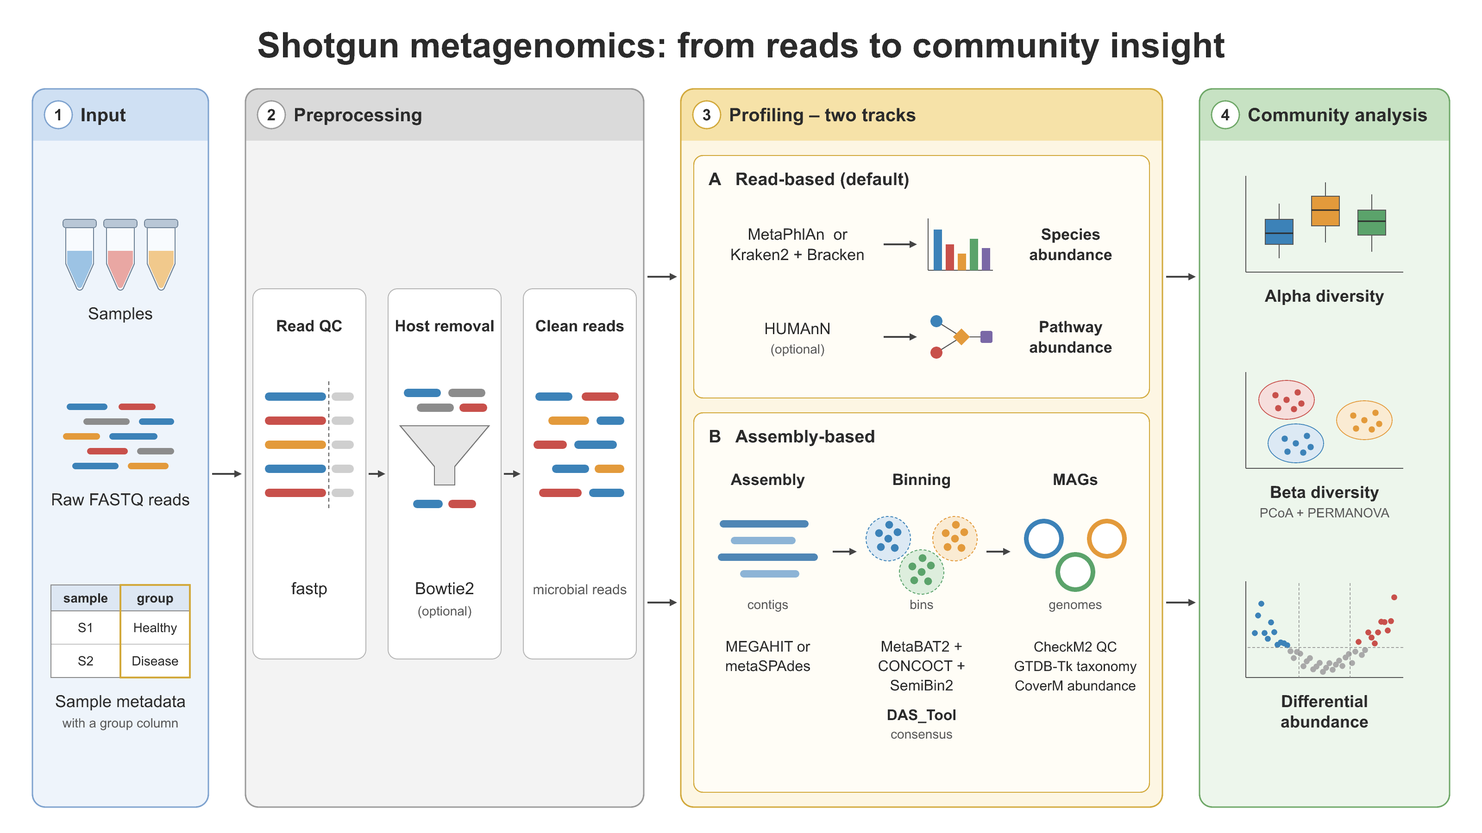
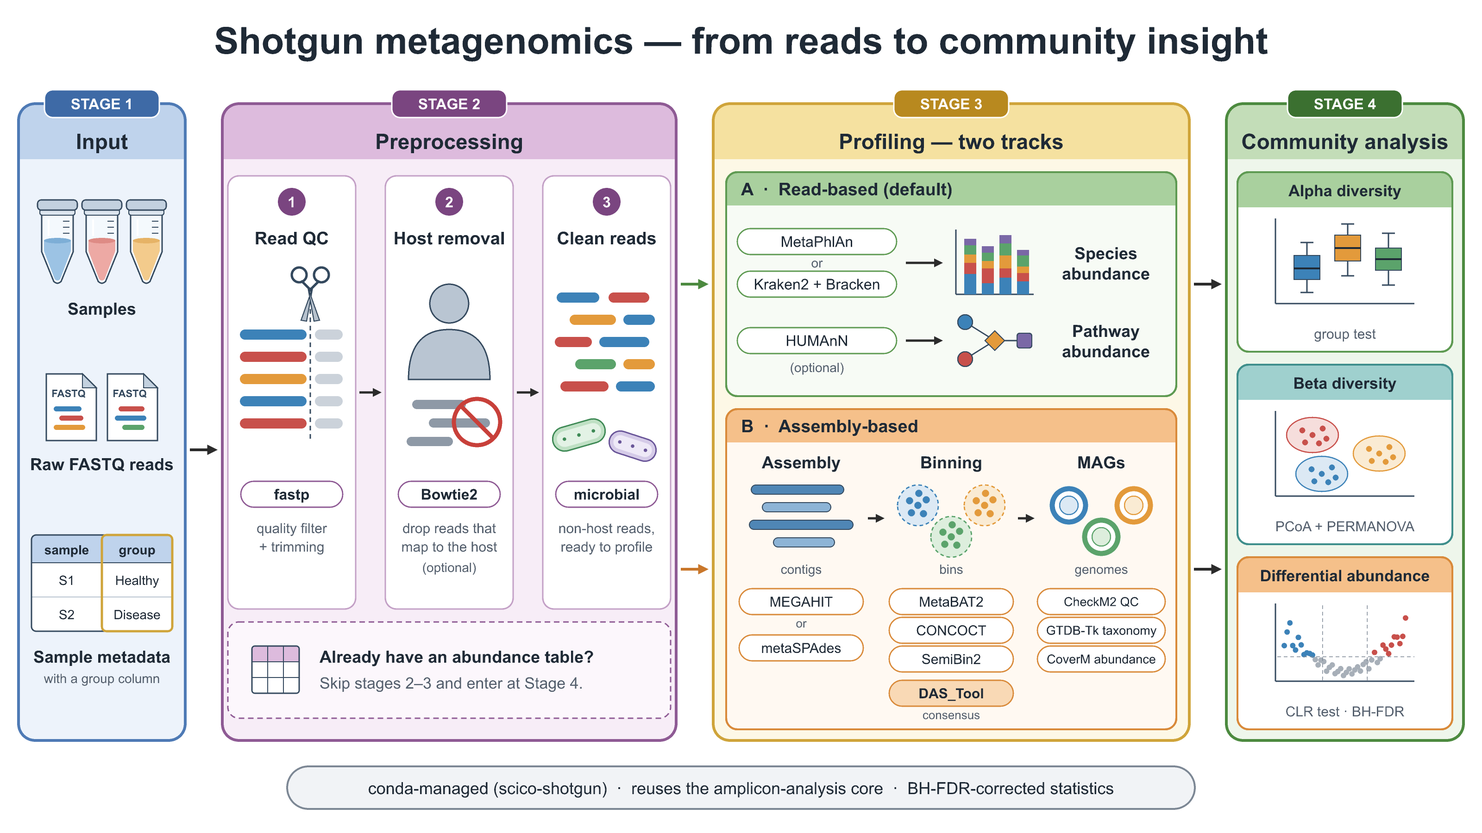
fix(scientific-workflow-viz): deliver PDF + SVG + PNG; add illustration-quality bar; redraw the example figure
- The deliverable is exactly three files exported from VectorCraft: PDF, SVG and PNG
- Add an "Illustration quality" section: reference figures (this example, amplicon_workflow,
  shotgun-workflow) and concrete rules (stage tabs, header bands, outlined two-tone icons,
  chips, large bold type, filled panels)
- Redraw the example figure in VectorCraft to that bar
- Align the skill README, the runtime notes, the READMEs (5 languages) and plugin.json

Changed region(s): [[0.0, 0.0311, 1.0, 0.9956], [0.2188, 0.7156, 0.25, 0.7467]]

diff --git a/skills/scientific-workflow-viz/SKILL.md b/skills/scientific-workflow-viz/SKILL.md
@@ -1,11 +1,11 @@
 ---
 name: scientific-workflow-viz
-description: 'Use when the user wants a high-quality BioRender-style scientific figure — workflow, pipeline, mechanism, comparison, timeline, or multi-panel infographic — DRAWN as an editable vector file in the VectorCraft desktop app (REQUIRED; install from https://getartcraft.com/apps/vectorcraft), with exact real-text labels and SVG/PDF/PNG export. Follows a 5-step process (analyze the content → choose the design → set the components → choose the illustrations → draw it in VectorCraft) with a FLEXIBLE layout (any number of panels/steps/stages; default 16:9). Triggers — "워크플로우 그림", "scheme/pipeline/mechanism figure", "BioRender 스타일", or "scientific workflow infographic". Invoke when the user asks to visualize a method/process/comparison as a figure.'
+description: 'Use when the user wants a high-quality BioRender-style scientific figure — workflow, pipeline, mechanism, comparison, timeline, or multi-panel infographic — DRAWN in the VectorCraft desktop app (REQUIRED; install from https://getartcraft.com/apps/vectorcraft) as a high-quality scientific illustration with exact real-text labels, and DELIVERED AS THREE FILES: PDF, SVG and PNG. Follows a 5-step process (analyze the content → choose the design → set the components → choose the illustrations → draw it in VectorCraft) with a FLEXIBLE layout (any number of panels/steps/stages; default 16:9). Triggers — "워크플로우 그림", "scheme/pipeline/mechanism figure", "BioRender 스타일", or "scientific workflow infographic". Invoke when the user asks to visualize a method/process/comparison as a figure.'
 ---
 
 # Scientific Workflow Viz
 
-Draw a high-quality, BioRender-style scientific figure **directly in the VectorCraft desktop app** — an editable vector file with real text labels, not an AI-generated image. Steps 1–4 design the figure; step 5 draws it, looks at the render, and fixes it.
+Draw a high-quality, BioRender-style scientific illustration **directly in the VectorCraft desktop app** and deliver it as **three files: PDF, SVG and PNG**. Labels are real text, not an AI-generated image. Steps 1–4 design the figure; step 5 draws it, looks at the render, fixes it, and exports the three files.
 
 **Requirement — VectorCraft must be installed:** <https://getartcraft.com/apps/vectorcraft> (source: <https://github.com/storytold/vectorcraft>). Check this before step 1. If the app is missing, **stop and ask the user to install it from that link** — do not fall back to an image prompt or another renderer, and do not install it yourself.
 
@@ -17,7 +17,7 @@ The layout is **flexible** — do NOT force a fixed 3-panel structure. Choose th
 2. **Decide the design type.** Pick the layout that matches the content (see the menu below). The number of panels / steps / stages is whatever the content needs — 2, 3, 4, a cycle, columns, levels, etc. Do not default to 3 panels.
 3. **Set the components.** Decide the concrete blocks: how many panels/steps/stages, what each one is, and how they connect (arrows, increasing scope, side-by-side, loop…).
 4. **Choose the illustrations.** For each component, decide the icons / mini-diagrams (microbe cluster, abundance bar chart, DNA helix, molecule, gut-lining, matrix grid, network, table, gauge, etc.). Ground them in the real content.
-5. **Draw it in VectorCraft.** Build steps 2–4 in the app with the house style and the arrow rules, export a PNG, look at it, and fix what you see — details in "Step 5 in detail" below.
+5. **Draw it in VectorCraft.** Build steps 2–4 in the app with the house style, the quality bar and the arrow rules; export, look, fix; then deliver **PDF + SVG + PNG** — details in "Step 5 in detail" below.
 
 ## House style (always)
 
@@ -26,6 +26,30 @@ The layout is **flexible** — do NOT force a fixed 3-panel structure. Choose th
 - **Size:** **default 16:9** unless the user specifies otherwise (e.g. square, A4, poster).
 - **Color:** distinct soft color per section, used consistently. Use the deck's brand accent if part of one (e.g. `#4A90E2` for xMeta).
 - **Honesty:** ground in the real method; tag "(optional)" / "(proposed)"; don't invent stages.
+
+## Illustration quality — the bar to meet
+
+The result must read as a **high-quality scientific illustration**, not a box-and-arrow diagram.
+The reference figures are in this repo — open one and compare before you deliver:
+[scientific-workflow-viz-example.png](../../assets/scientific-workflow-viz-example.png),
+[amplicon_workflow.png](../../assets/amplicon_workflow.png),
+[shotgun-workflow.png](../../assets/shotgun-workflow.png).
+(If this skill folder was copied on its own, the same files are under
+<https://raw.githubusercontent.com/chanikyu/SciCo-Skills/main/assets/>.)
+
+- **Panels:** a colored border (about 3 pt), a saturated header band with a bold title, and a
+  `STAGE n` tab on the top edge. Fill the panel — large empty areas read as unfinished.
+- **Icons are illustrations:** every icon has an outline, a fill, and a second tone or highlight
+  (a tube with cap, liquid and graduations; a FASTQ page with a folded corner; a microbe with an
+  inner membrane). A bare rectangle or circle standing in for an object is not an icon.
+- **One visual system:** the same outline color and weight on every icon, a small fixed palette,
+  the same corner radius and chip shape everywhere.
+- **Type:** large and bold where it matters — title about 2.5 % of the canvas width, panel titles
+  about 1.5 %, labels about 1 %. Put tool names in rounded chips.
+- **Sub-structure:** split a dense panel into cards or tracks, each with its own colored header.
+- **Schematic charts** (box plot, ordination, volcano, stacked bars) are icons: no numbers and no
+  made-up statistics.
+- **Finish:** a one-line summary banner under the panels is welcome when it carries real information.
 
 ## Design menu (step 2 — pick what fits, not fixed)
 
@@ -90,10 +114,12 @@ skill folder.
    views, fix the biggest defect first, then re-export:
    - whole figure: main message, reading order, balance, empty or crowded areas;
    - final display size: export at the width it will be shown and confirm every label is readable;
-   - zoomed crops: clipped objects, overlaps, text touching borders, arrow start/end points.
-5. **Deliver** to the folder the user named (else a per-figure folder): the editable
-   `.vectorcraft` file, SVG, PDF, and a PNG preview. Say what you actually checked and what is
-   still unresolved — do not claim BioRender-equivalent quality.
+   - zoomed crops: clipped objects, overlaps, text touching borders, arrow start/end points;
+   - next to a reference figure ("Illustration quality"): if yours looks plainer, keep working.
+5. **Deliver exactly three files — PDF, SVG and PNG** — exported from VectorCraft with the same
+   base name, to the folder the user named (else a per-figure folder). Re-open the PDF or SVG
+   once and confirm it shows the same figure as the PNG. Say what you actually checked and what
+   is still unresolved.
 6. **Quit only the instance you started**, after saving (runtime file, section 5).
 
 ## Examples — figure specs from steps 2–4 (each is ONE design choice, not the only shape)

diff --git a/skills/scientific-workflow-viz/README.md b/skills/scientific-workflow-viz/README.md
@@ -2,10 +2,9 @@
 
 <sub>[← SciCo-Skills](../../README.md) · a skill in the SciCo-Skills suite</sub>
 
-Draw a high-quality, **BioRender-style** scientific figure — a workflow, pipeline, mechanism,
+Draw a high-quality, **BioRender-style** scientific illustration — a workflow, pipeline, mechanism,
 comparison, timeline, or multi-panel infographic — **directly in the VectorCraft desktop app**.
-The output is an editable vector file (`.vectorcraft` + SVG / PDF) and a PNG preview, with
-**real text labels** (nothing to re-type afterwards).
+You get **three files: PDF, SVG and PNG**, with real text labels (nothing to re-type afterwards).
 
 > **Requires [VectorCraft](https://getartcraft.com/apps/vectorcraft)** — an open-source
 > (MIT OR Apache-2.0) desktop vector editor ([source](https://github.com/storytold/vectorcraft)).
@@ -16,19 +15,19 @@ The output is an editable vector file (`.vectorcraft` + SVG / PDF) and a PNG pre
 > real data.
 
 <p align="center">
-<img src="../../assets/scientific-workflow-viz-example.png" width="92%" alt="Example figure drawn in VectorCraft by scientific-workflow-viz — a four-panel shotgun-metagenomics workflow: input, preprocessing, two profiling tracks, community analysis"/>
+<img src="../../assets/scientific-workflow-viz-example.png" width="92%" alt="Example figure drawn in VectorCraft by scientific-workflow-viz — a four-stage shotgun-metagenomics workflow: input, preprocessing, two profiling tracks, community analysis"/>
 </p>
 
 <p align="center"><sub>Example output — the shotgun-analysis pipeline, drawn in VectorCraft by this skill.</sub></p>
 
 ## 🤖 Use it in Claude
 
-**Describe the method or process** you want to visualize — Claude designs the figure and draws
-it in VectorCraft. For example, just say:
+**Describe the method or process** you want to visualize — Claude designs the figure, draws it
+in VectorCraft, and hands you the PDF, SVG and PNG. For example, just say:
 
 > *"Make a BioRender-style workflow figure for this pipeline."*
 
-The steps below are the method Claude follows to design and draw the figure.
+The steps below are the method Claude follows.
 
 ## The 5-step process
 
@@ -37,11 +36,16 @@ The steps below are the method Claude follows to design and draw the figure.
    cycle/loop · mechanism/network · hybrid (panel count follows the content — never forced to 3).
 3. **Set the components** — the concrete blocks and how they connect.
 4. **Choose the illustrations** — icons / mini-diagrams grounded in the real method.
-5. **Draw it in VectorCraft** — build it in the app, export a PNG, look at it, fix what is wrong,
-   and deliver the editable file with SVG / PDF / PNG.
+5. **Draw it in VectorCraft** — build it in the app, export, look at the render, fix what is
+   wrong, and deliver **PDF + SVG + PNG**.
 
 **House style:** flat scientific icons, white background, dark-grey text, soft color-coded
 sections with rounded borders / colored header bars, clear arrows, default 16:9.
+
+**Illustration quality:** stage tabs and saturated header bands, outlined two-tone icons, tool
+names in chips, large bold type, panels filled with content — measured against the workflow
+figures in this repo ([this example](../../assets/scientific-workflow-viz-example.png),
+[amplicon](../../assets/amplicon_workflow.png), [shotgun](../../assets/shotgun-workflow.png)).
 
 **Arrows:** one thin dark-grey arrow style, one global reading direction, strictly horizontal
 or vertical, each box drawn exactly once.
@@ -56,4 +60,4 @@ or vertical, each box drawn exactly once.
 How the app is started and driven, and the commands used:
 **[`vectorcraft-runtime.md`](vectorcraft-runtime.md)** (checked against VectorCraft 0.21.0 on macOS).
 
-Full rules, the design menu, and examples: **[`SKILL.md`](SKILL.md)**.
+Full rules, the quality bar, the design menu, and examples: **[`SKILL.md`](SKILL.md)**.

diff --git a/README/ja.md b/README/ja.md
@@ -43,7 +43,7 @@
 | ⚗ [microbiome-metabolome-analysis](https://github.com/chanikyu/SciCo-Skills/wiki/microbiome-metabolome-analysis) | アノテーション済み feature table からのメタボロミクス — フィルタリング/欠測値補完 → PQN → log+Pareto → 単変量解析(BH-FDR, volcano) → PCA / PLS-DA + VIP + 並べ替え検定 → ヒートマップ; オプションでパスウェイ ORA。 |
 | 🔗 [microbiome-multiomics-analysis](https://github.com/chanikyu/SciCo-Skills/wiki/microbiome-multiomics-analysis) | ペアリングされたメタゲノム + メタトランスクリプトーム + メタボロームを統合 — オミクスごとの CLR/log → PERMANOVA → オミクス間 Spearman ネットワーク(BH-FDR) → Procrustes/Mantel 一致性; オプションで MOFA+。 |
 | 📊 [scientific-data-viz](https://github.com/chanikyu/SciCo-Skills/wiki/scientific-data-viz) | 実データから作る論文品質のジャーナル図 — コードで描画するため、すべての値が正確です。20 種類のパレット、凡例を図の外側に配置、任意の統計処理（t 検定 / ANOVA / Mann–Whitney / Kruskal / 相関 / log-rank / **PERMANOVA**）、構造化された `images/` + `script/` 出力。 |
-| 🧫 [scientific-workflow-viz](https://github.com/chanikyu/SciCo-Skills/wiki/scientific-workflow-viz) | BioRender スタイルの **コンセプト図**（ワークフロー / メカニズム / 比較）を、[VectorCraft](https://getartcraft.com/apps/vectorcraft) デスクトップアプリ（**インストール必須**）で**編集可能なベクターファイル**として直接描画。正確なテキストラベル、SVG / PDF / PNG 書き出しに対応。 |
+| 🧫 [scientific-workflow-viz](https://github.com/chanikyu/SciCo-Skills/wiki/scientific-workflow-viz) | BioRender スタイルの高品質な **コンセプト図**（ワークフロー / メカニズム / 比較）を [VectorCraft](https://getartcraft.com/apps/vectorcraft) デスクトップアプリ（**インストール必須**）で**直接描画**し、**PDF・SVG・PNG** の 3 ファイルで納品。テキストラベルは正確です。 |
 | 🛠 [bioinfo-tool-builder](https://github.com/chanikyu/SciCo-Skills/wiki/bioinfo-tool-builder) | 研究目標から新しいバイオインフォマティクスツールを自律的に構築 — 論文・ツールの深い調査 → アルゴリズム設計 → 実現可能性 → 実際の競合ツールとの正直なベンチマーク(真の値により近く)、conda隔離、2レンズレビュー、低摩擦CLI。4つのゲートでのみ報告。 |
 
 ## 🚀 Quick start

diff --git a/README/es.md b/README/es.md
@@ -43,7 +43,7 @@ resultados científicos **renderizados por código, exactos y honestos** (divers
 | ⚗ [microbiome-metabolome-analysis](https://github.com/chanikyu/SciCo-Skills/wiki/microbiome-metabolome-analysis) | Metabolómica a partir de una tabla de features anotada — filtrado/imputación → PQN → log+Pareto → univariante (BH-FDR, volcano) → PCA / PLS-DA + VIP + permutación → heatmap; ORA de rutas opcional. |
 | 🔗 [microbiome-multiomics-analysis](https://github.com/chanikyu/SciCo-Skills/wiki/microbiome-multiomics-analysis) | Integra metagenoma + metatranscriptoma + metaboloma emparejados — CLR/log por ómica → PERMANOVA → red de Spearman inter-ómica (BH-FDR) → concordancia por Procrustes/Mantel; MOFA+ opcional. |
 | 📊 [scientific-data-viz](https://github.com/chanikyu/SciCo-Skills/wiki/scientific-data-viz) | Figuras de revista con calidad de publicación a partir de datos reales — renderizadas por código, de modo que cada valor es exacto. 20 paletas, leyendas fuera del gráfico, estadísticas opcionales (t / ANOVA / Mann–Whitney / Kruskal / correlación / log-rank / **PERMANOVA**), salida estructurada en `images/` + `script/`. |
-| 🧫 [scientific-workflow-viz](https://github.com/chanikyu/SciCo-Skills/wiki/scientific-workflow-viz) | **Figuras conceptuales** estilo BioRender (flujo de trabajo / mecanismo / comparación) **dibujadas como archivos vectoriales editables** en la aplicación de escritorio [VectorCraft](https://getartcraft.com/apps/vectorcraft) (**obligatoria**): etiquetas de texto reales y exportación a SVG / PDF / PNG. |
+| 🧫 [scientific-workflow-viz](https://github.com/chanikyu/SciCo-Skills/wiki/scientific-workflow-viz) | **Figuras conceptuales** de alta calidad estilo BioRender (flujo de trabajo / mecanismo / comparación), **dibujadas en la aplicación de escritorio [VectorCraft](https://getartcraft.com/apps/vectorcraft)** (**obligatoria**) y entregadas en **PDF + SVG + PNG**, con etiquetas de texto reales. |
 | 🛠 [bioinfo-tool-builder](https://github.com/chanikyu/SciCo-Skills/wiki/bioinfo-tool-builder) | Construye de forma autónoma una nueva herramienta bioinformática a partir de un objetivo de investigación — estudio profundo de artículos/herramientas → diseño de algoritmo → viabilidad → benchmark honesto frente a los competidores reales (más cerca de la verdad), aislado en conda, revisión de dos lentes, CLI de baja fricción. Informa solo en 4 gates. |
 
 ## 🚀 Inicio rápido

diff --git a/README/ko.md b/README/ko.md
@@ -43,7 +43,7 @@
 | ⚗ [microbiome-metabolome-analysis](https://github.com/chanikyu/SciCo-Skills/wiki/microbiome-metabolome-analysis) | 주석된 피처 테이블에서 시작하는 메타볼로믹스 — 필터링/대치 → PQN → log+Pareto → 단변량(BH-FDR, 볼케이노) → PCA / PLS-DA + VIP + 순열검정 → 히트맵; 선택적 경로 ORA. |
 | 🔗 [microbiome-multiomics-analysis](https://github.com/chanikyu/SciCo-Skills/wiki/microbiome-multiomics-analysis) | 짝지어진 메타지놈 + 메타전사체 + 메타볼롬 통합 — 오믹스별 CLR/log → PERMANOVA → 오믹스 간 Spearman 네트워크(BH-FDR) → Procrustes/Mantel 일치도; 선택적 MOFA+. |
 | 📊 [scientific-data-viz](https://github.com/chanikyu/SciCo-Skills/wiki/scientific-data-viz) | 실제 데이터로 만드는 논문 품질의 저널 그림 — 코드로 렌더링되어 모든 값이 정확합니다. 20종 팔레트, 범례 바깥 배치, 선택적 통계(t / ANOVA / Mann–Whitney / Kruskal / 상관 / log-rank / **PERMANOVA**), 체계적인 `images/` + `script/` 출력. |
-| 🧫 [scientific-workflow-viz](https://github.com/chanikyu/SciCo-Skills/wiki/scientific-workflow-viz) | BioRender 스타일의 **개념도**(워크플로우 / 메커니즘 / 비교)를 [VectorCraft](https://getartcraft.com/apps/vectorcraft) 데스크톱 앱(**설치 필수**)에서 **편집 가능한 벡터 파일**로 직접 그림 — 정확한 글자 라벨, SVG / PDF / PNG 내보내기. |
+| 🧫 [scientific-workflow-viz](https://github.com/chanikyu/SciCo-Skills/wiki/scientific-workflow-viz) | BioRender 스타일의 고품질 **개념도**(워크플로우 / 메커니즘 / 비교)를 [VectorCraft](https://getartcraft.com/apps/vectorcraft) 데스크톱 앱(**설치 필수**)으로 **직접 그려** **PDF · SVG · PNG** 세 파일로 제공 — 글자 라벨이 정확함. |
 | 🛠 [bioinfo-tool-builder](https://github.com/chanikyu/SciCo-Skills/wiki/bioinfo-tool-builder) | 연구 목표로부터 새 생물정보 도구를 자동으로 개발 — 논문·도구 심층 조사 → 알고리즘 설계 → 타당성 → 실제 경쟁툴 대비 정직한 벤치마크(정답에 더 가깝게), conda 격리, 2렌즈 리뷰, 저마찰 CLI. 4개 게이트에서만 보고. |
 
 ## 🚀 Quick start

diff --git a/README.md b/README.md
@@ -43,7 +43,7 @@ Describe your data in natural language and Claude runs the right skill —
 | ⚗ [microbiome-metabolome-analysis](https://github.com/chanikyu/SciCo-Skills/wiki/microbiome-metabolome-analysis) | **Metabolomics** from an annotated feature table — filtering/imputation → PQN → log+Pareto → univariate (BH-FDR, volcano) → PCA / **PLS-DA + VIP + permutation** → heatmap; optional pathway ORA. Enter at any stage. |
 | 🔗 [microbiome-multiomics-analysis](https://github.com/chanikyu/SciCo-Skills/wiki/microbiome-multiomics-analysis) | **Integrate** paired metagenome + metatranscriptome + metabolome — CLR/log per omic → per-omic **PERMANOVA** → cross-omic **Spearman network (BH-FDR)** → **Procrustes/Mantel** concordance; optional MOFA+. |
 | 📊 [scientific-data-viz](https://github.com/chanikyu/SciCo-Skills/wiki/scientific-data-viz) | Publication-quality journal figures from real data — code-rendered so every value is exact. 20 palettes, legends outside, optional statistics (t / ANOVA / Mann–Whitney / Kruskal / correlation / log-rank / **PERMANOVA**), structured `images/` + `script/` output. |
-| 🧫 [scientific-workflow-viz](https://github.com/chanikyu/SciCo-Skills/wiki/scientific-workflow-viz) | BioRender-style **concept figures** (workflow / mechanism / comparison) **drawn as editable vector files** in the [VectorCraft](https://getartcraft.com/apps/vectorcraft) desktop app (**required**) — real text labels, SVG / PDF / PNG export. |
+| 🧫 [scientific-workflow-viz](https://github.com/chanikyu/SciCo-Skills/wiki/scientific-workflow-viz) | High-quality, BioRender-style **concept figures** (workflow / mechanism / comparison) **drawn in the [VectorCraft](https://getartcraft.com/apps/vectorcraft) desktop app** (**required**) and delivered as **PDF + SVG + PNG**, with real text labels. |
 | 🛠 [bioinfo-tool-builder](https://github.com/chanikyu/SciCo-Skills/wiki/bioinfo-tool-builder) | Autonomously **build a new bioinformatics tool** from a research goal — deep paper/tool survey → algorithm design → feasibility → **honest benchmark vs the real competitors** (closer to ground truth), conda-isolated, two-lens review, low-friction CLI. Reports only at 4 gates. |
 
 ## 🚀 Quick start

diff --git a/README/zh.md b/README/zh.md
@@ -43,7 +43,7 @@
 | ⚗ [microbiome-metabolome-analysis](https://github.com/chanikyu/SciCo-Skills/wiki/microbiome-metabolome-analysis) | 从已注释特征表出发的代谢组学 — 过滤/插补 → PQN → log+Pareto → 单变量(BH-FDR, 火山图) → PCA / PLS-DA + VIP + 置换检验 → 热图; 可选通路 ORA。 |
 | 🔗 [microbiome-multiomics-analysis](https://github.com/chanikyu/SciCo-Skills/wiki/microbiome-multiomics-analysis) | 整合配对的宏基因组 + 宏转录组 + 代谢组 — 各组学 CLR/log → PERMANOVA → 跨组学 Spearman 网络(BH-FDR) → Procrustes/Mantel 一致性; 可选 MOFA+。 |
 | 📊 [scientific-data-viz](https://github.com/chanikyu/SciCo-Skills/wiki/scientific-data-viz) | 从真实数据生成可发表的期刊级图表——由代码渲染，因此每个数值都精确无误。20 种配色方案、图例置于图外、可选统计检验（t / ANOVA / Mann–Whitney / Kruskal / 相关性 / log-rank / **PERMANOVA**），并输出结构化的 `images/` + `script/`。 |
-| 🧫 [scientific-workflow-viz](https://github.com/chanikyu/SciCo-Skills/wiki/scientific-workflow-viz) | BioRender 风格的**概念图**（工作流 / 机制 / 对比），在 [VectorCraft](https://getartcraft.com/apps/vectorcraft) 桌面应用（**必须安装**）中直接绘制为**可编辑的矢量文件**——文字标签准确，可导出 SVG / PDF / PNG。 |
+| 🧫 [scientific-workflow-viz](https://github.com/chanikyu/SciCo-Skills/wiki/scientific-workflow-viz) | 高质量的 BioRender 风格**概念图**（工作流 / 机制 / 对比），在 [VectorCraft](https://getartcraft.com/apps/vectorcraft) 桌面应用（**必须安装**）中**直接绘制**，并以 **PDF + SVG + PNG** 三个文件交付，文字标签准确。 |
 | 🛠 [bioinfo-tool-builder](https://github.com/chanikyu/SciCo-Skills/wiki/bioinfo-tool-builder) | 从研究目标自主构建新的生物信息学工具 — 论文/工具深度调研 → 算法设计 → 可行性 → 与真实竞争工具的诚实基准测试(更接近真实值)、conda 隔离、双镜头评审、低摩擦 CLI。仅在 4 个关卡报告。 |
 
 ## 🚀 快速开始

diff --git a/skills/scientific-workflow-viz/vectorcraft-runtime.md b/skills/scientific-workflow-viz/vectorcraft-runtime.md
@@ -76,17 +76,20 @@ Commands used to draw a complete workflow figure (0.21.0). Units are points; **y
 | Fill / stroke colour | `paint.setFill`, `paint.setStroke` | `ids`, `color: "#rrggbb"` or `none: true` |
 | Stroke weight, dash, arrowhead | `stroke.set` | `ids`, `weight`, `dash`, `endArrow: "Triangle"`, `arrowAlign: "tip"` |
 | Group and name | `object.group`, `object.setProps` | `ids` → `{id}`; then `name` |
-| Save the editable file | `document.save` | `path: "/absolute/output/figure.vectorcraft"` |
-| Export | `document.export` | `path`, `format: png\|svg\|pdf`; PNG takes `scale` (pixels per point), `background`, and `rect: [x, y, w, h]` for a zoomed crop |
+| Export the deliverables | `document.export` | `path`, `format: pdf\|svg\|png`; PNG takes `scale` (pixels per point), `background`, and `rect: [x, y, w, h]` for a zoomed crop |
+| Save the working file | `document.save` | `path: "/absolute/output/figure.vectorcraft"` — not a deliverable; saving lets the app quit cleanly |
+| Re-open an export to check it | `document.open` | `path` to the exported `.pdf` or `.svg`, then export a PNG of it and compare |
 
 `text.create` returns the text's `bounds` — compare them with the box the label must fit in to
 catch overflow before you even look. A `warning` in the reply means the font or style was not
 found and a fallback was used.
 
-## 4. Save, export, look
+## 4. Export the three files, then look
 
-Save the `.vectorcraft` file, export PNG / SVG / PDF, then **open the PNG and look at it**.
-A successful save or a valid SVG is not a visual check.
+The deliverable is **three files with the same base name: PDF, SVG and PNG**. Export all three
+with `document.export`, then **open the PNG and look at it**. A successful export or a valid SVG
+is not a visual check. Re-open the PDF or SVG once (`document.open`) and confirm it shows the
+same figure.
 
 ## 5. Timeouts and quitting
 
